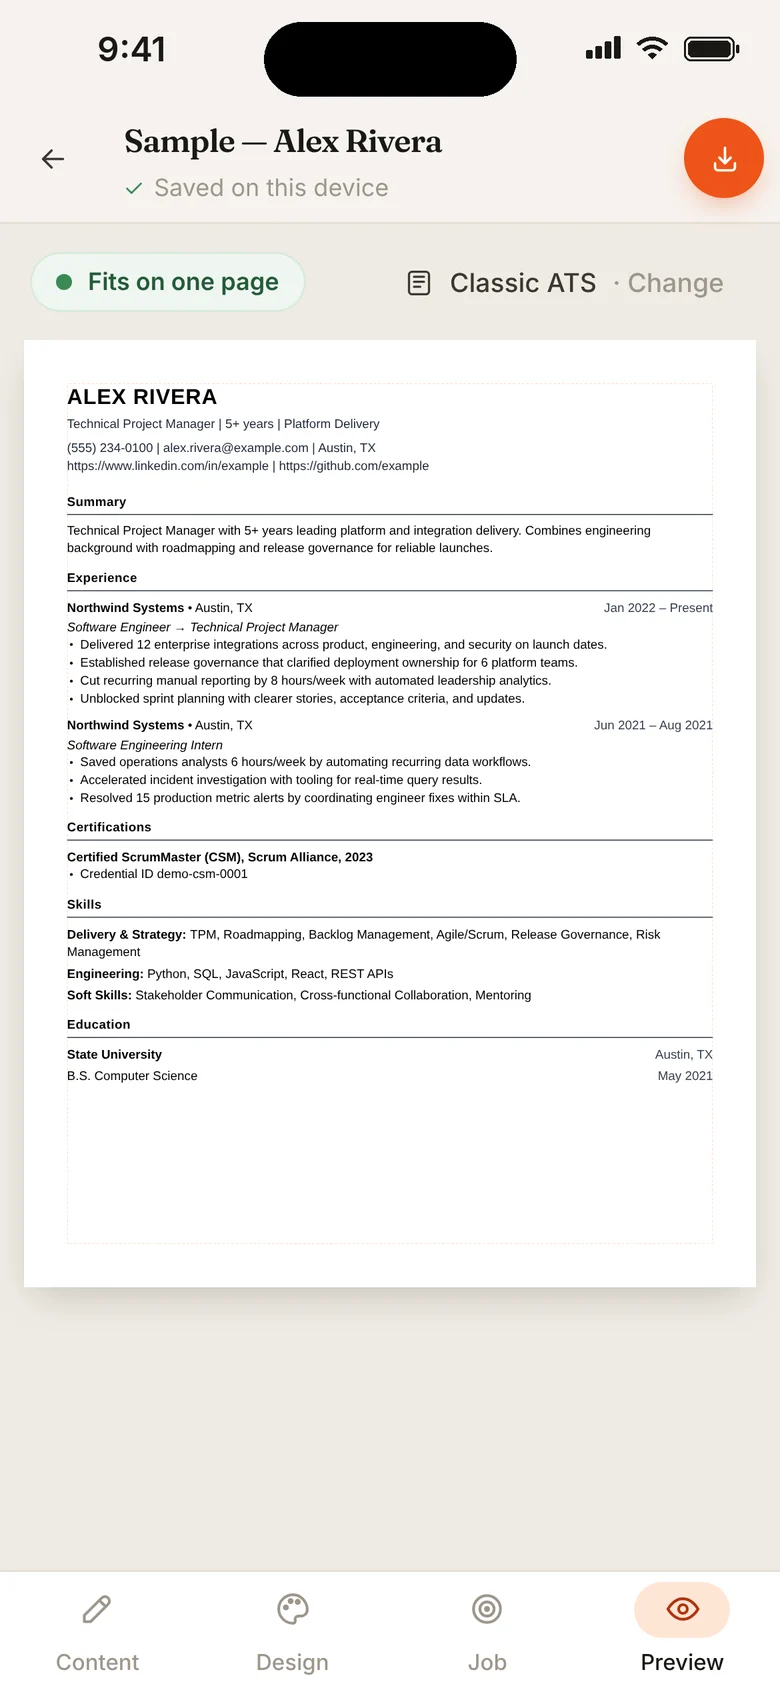
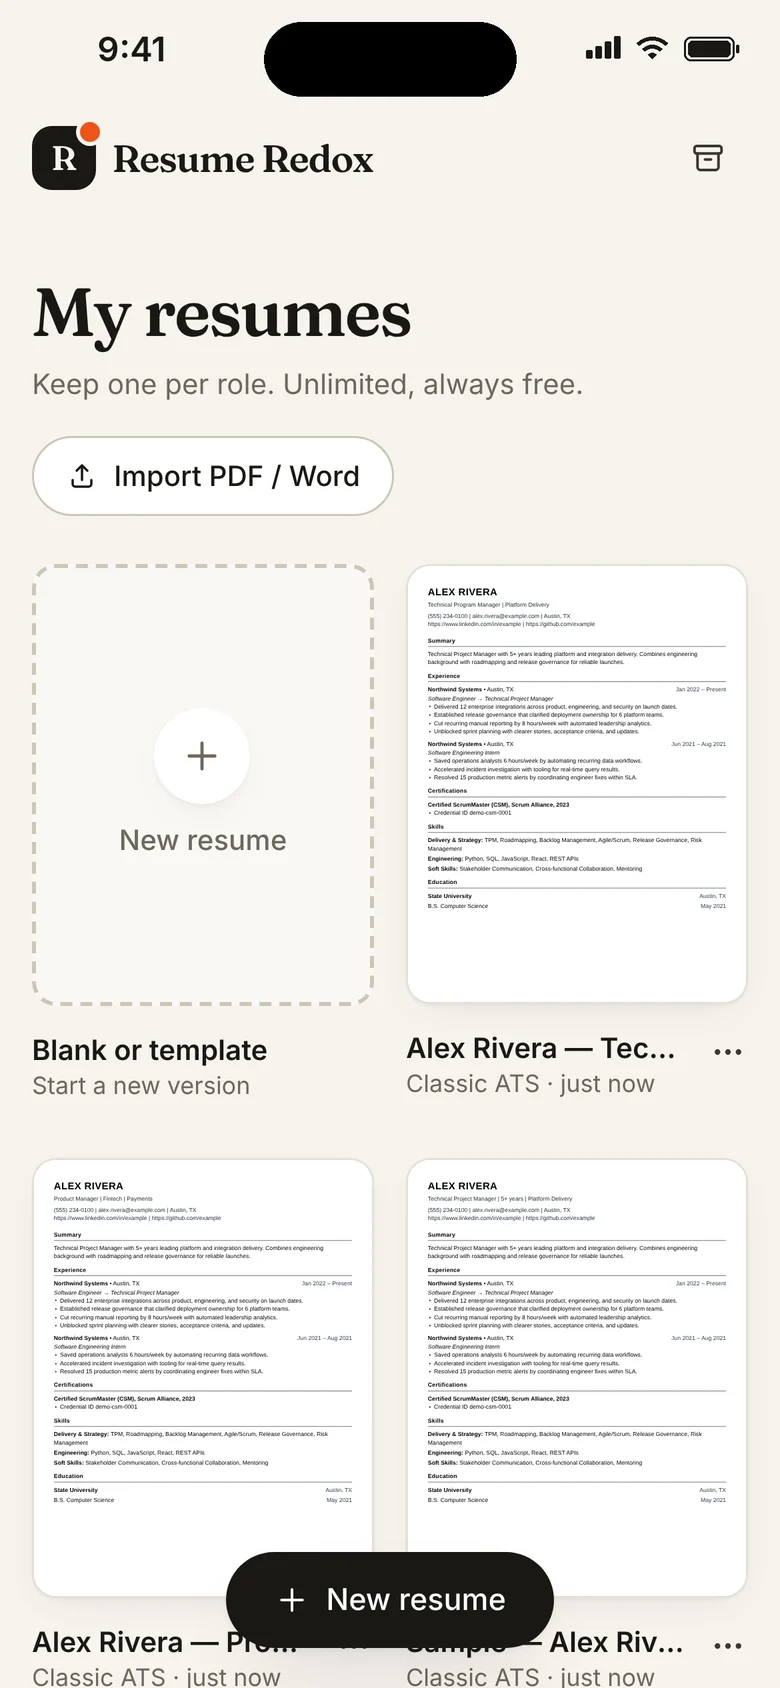
Show the Resume Redox home screen
Replaces the editor's Preview tab with the My resumes home screen,
holding three versions of the sample resume (one per role).

Claude-Session: https://claude.ai/code/session_016uoJ9dUpFwFMNkDYuN8rKY

diff --git a/index.html b/index.html
@@ -53,7 +53,7 @@
   </article>
 
   <article class="entry" id="resume-redox">
-    <figure class="phone"><span class="tape"></span><span class="device"><img src="assets/img/resume-redox-screen.webp" alt="Resume Redox on iPhone: a finished one-page resume in the Preview tab, marked Fits on one page" width="780" height="1688" loading="lazy" /></span><figcaption>one page, every time</figcaption></figure>
+    <figure class="phone"><span class="tape"></span><span class="device"><img src="assets/img/resume-redox-screen.webp" alt="Resume Redox on iPhone: the My resumes home screen, with a version of one resume for each role" width="780" height="1688" loading="lazy" /></span><figcaption>one resume per role</figcaption></figure>
     <div>
       <h2><img src="assets/img/resume-redox-icon.svg" alt="" width="40" height="40" />Resume Redox</h2>
       <p class="kind">web app, live and free</p>
